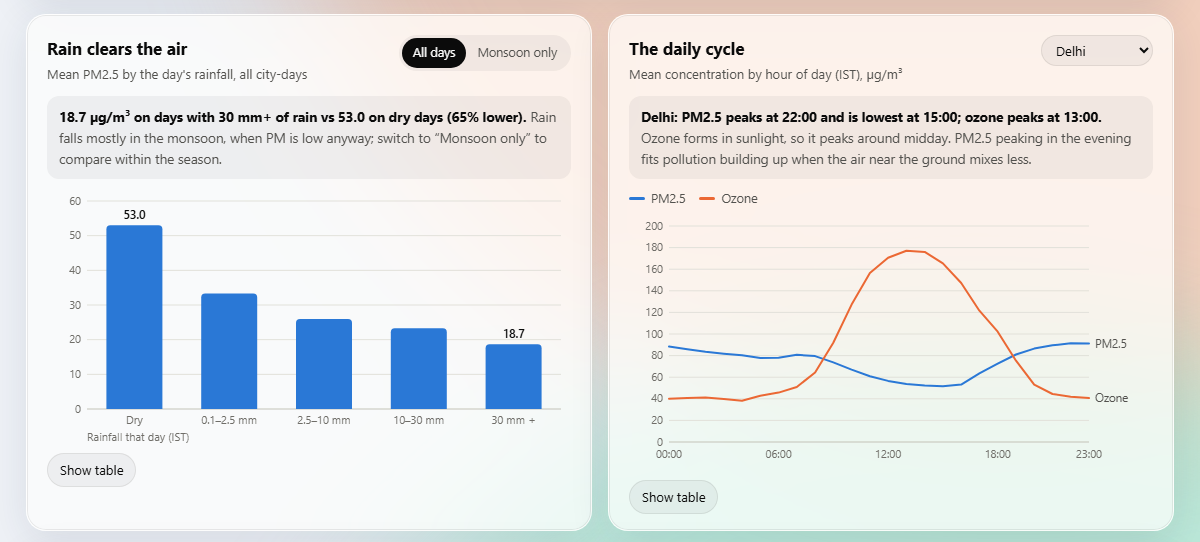
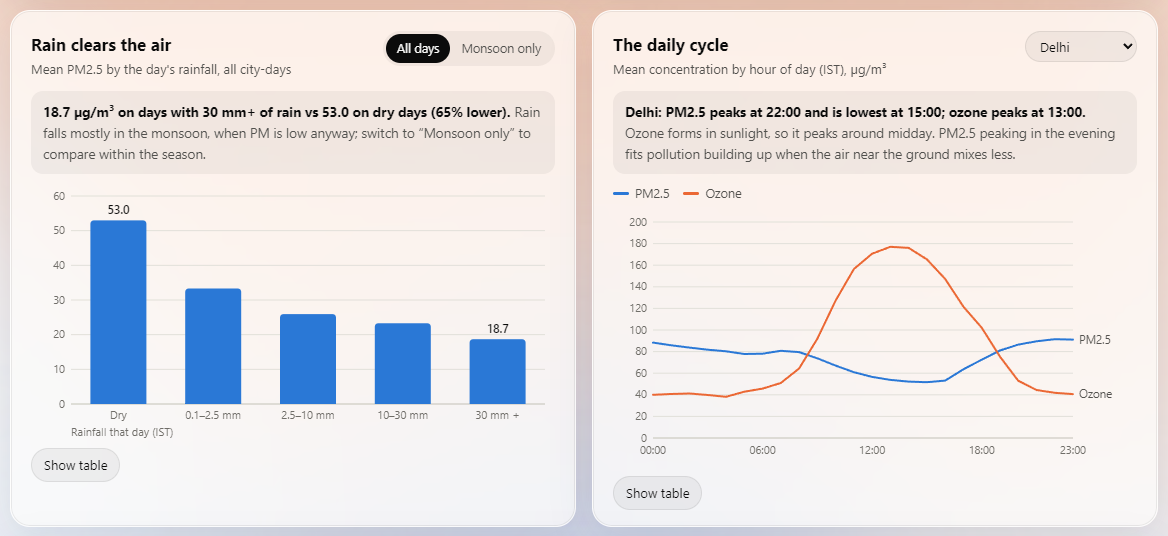
README: refresh dashboard screenshots, add City and Pipeline tabs
Retook the dashboard screenshots from the live site (theme switch, tabs,
model-upgrade markers, colour-wave background) and added one each for
the City and Pipeline tabs. The dbt lineage, Actions and Airflow
screenshots are unchanged and renumbered 8-10.

diff --git a/README.md b/README.md
@@ -25,16 +25,16 @@ The page has three tabs, each with its own link:
   loaded, source freshness, dbt results with any warnings, slowest models), the recent runs of the daily workflow
   from the GitHub API, and BigQuery table metadata including the sandbox expiry dates.
 
-![Guided tour, step 7: the Diwali chart in the spotlight](assets/screenshots/0-guided-tour.png)
+![Guided tour, step 8: the Diwali chart in the spotlight](assets/screenshots/0-guided-tour.png)
 
 **1. Overview.** Freshness of the newest hour, headline numbers, and the two indices: the full CPCB AQI and the
 PM index the dashboard leads with. Cities are ranked by mean index; the category mix shows how often each city's air
-is Good through Severe.
+is Good through Severe. The sun/moon switch in the corner changes the theme; the background is slow waves of colour.
 
 ![Dashboard overview: headline numbers, city ranking and category mix](assets/screenshots/1-overview-light.png)
 
-**2. Over time, and Diwali (dark theme).** Monthly index for any city against the 15-city mean, and PM2.5 for the
-ten days either side of each Diwali in the data. The finding above the chart is generated from the data: Diwali-day
+**2. Over time, and Diwali (dark theme).** Monthly index for any city against the 15-city mean, with the two CAMS
+model upgrades marked, and PM2.5 for the ten days either side of each Diwali in the data. The finding above the chart is generated from the data: Diwali-day
 PM2.5 was above the week before in 2 of 4 years.
 
 ![Month-by-month index and the Diwali comparison, dark theme](assets/screenshots/2-trends-dark.png)
@@ -48,24 +48,35 @@ average hour-by-hour profile of PM2.5 and ozone for any city.
 
 ![Season heatmap: mean PM index by city and month](assets/screenshots/4-seasons-dark.png)
 
-**5. On a phone.** The same page at 390 px wide: the cards stack and the charts redraw to the width.
+**5. City tab.** Delhi's latest complete day next to the other 14 cities (click a bar to switch city), and every
+day since August 2022 coloured by CPCB category. Below it, not shown: the city's 10 worst days with the weather.
 
-<img src="assets/screenshots/5-mobile-dark.png" alt="Dashboard on a 390 px wide phone screen" width="300">
+![City tab: Delhi's latest day and a calendar of every day since August 2022](assets/screenshots/5-city-light.png)
 
-**6. dbt lineage.** Raw sources and seeds → staging views → marts, with the singular and unit tests attached
+**6. Pipeline tab (dark theme).** Numbers from the run that built the page: rows loaded, source freshness, the dbt
+build with its two known warnings, the slowest models, recent runs from the GitHub API and BigQuery table metadata.
+When this was taken, all 10 runs had been started by hand, and the tab says so.
+
+![Pipeline tab: run summary, steps of one run, recent runs, dbt results and warehouse tables](assets/screenshots/6-pipeline-dark.png)
+
+**7. On a phone.** The same page at 390 px wide: the cards stack and the charts redraw to the width.
+
+<img src="assets/screenshots/7-mobile-dark.png" alt="Dashboard on a 390 px wide phone screen" width="300">
+
+**8. dbt lineage.** Raw sources and seeds → staging views → marts, with the singular and unit tests attached
 (from the published dbt docs).
 
-![dbt lineage graph from raw sources to the marts and tests](assets/screenshots/6-dbt-lineage.png)
+![dbt lineage graph from raw sources to the marts and tests](assets/screenshots/8-dbt-lineage.png)
 
-**7. The daily workflow.** One run of `daily.yml`: the pipeline job (load, freshness, `dbt build`, docs, export)
+**9. The daily workflow.** One run of `daily.yml`: the pipeline job (load, freshness, `dbt build`, docs, export)
 and the Pages deploy, with the reports kept as an artifact. This run was started by hand.
 
-![GitHub Actions run of the daily workflow](assets/screenshots/7-github-actions-run.png)
+![GitHub Actions run of the daily workflow](assets/screenshots/9-github-actions-run.png)
 
-**8. Airflow.** The monthly DAG (`load_month → check_month → source_freshness → dbt_build`) after the backfills:
+**10. Airflow.** The monthly DAG (`load_month → check_month → source_freshness → dbt_build`) after the backfills:
 six runs, none failed.
 
-![Airflow DAG page with six successful runs](assets/screenshots/8-airflow-dag.png)
+![Airflow DAG page with six successful runs](assets/screenshots/10-airflow-dag.png)
 
 ## Architecture
 
